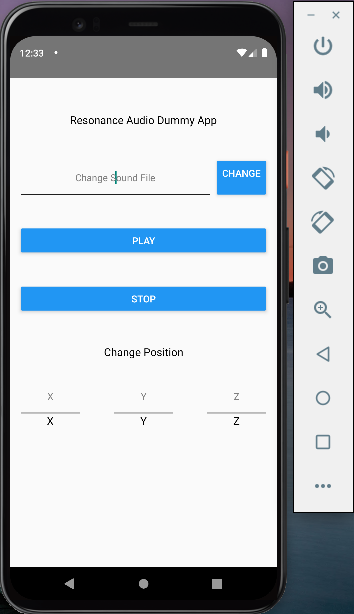
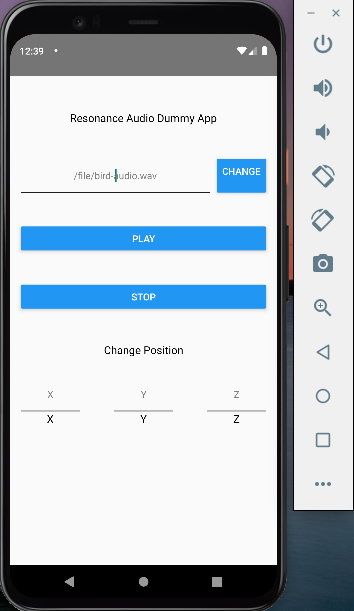
change ss

diff --git a/App.js b/App.js
@@ -34,7 +34,7 @@ const App = () => {
         <View style={styles.displayFlex}>
           <TextInput
             style={styles.txtInput}
-            placeholder="Change Sound File"
+            placeholder="/file/bird-audio.wav"
             placeholderTextColor="grey"
           />
         </View>
